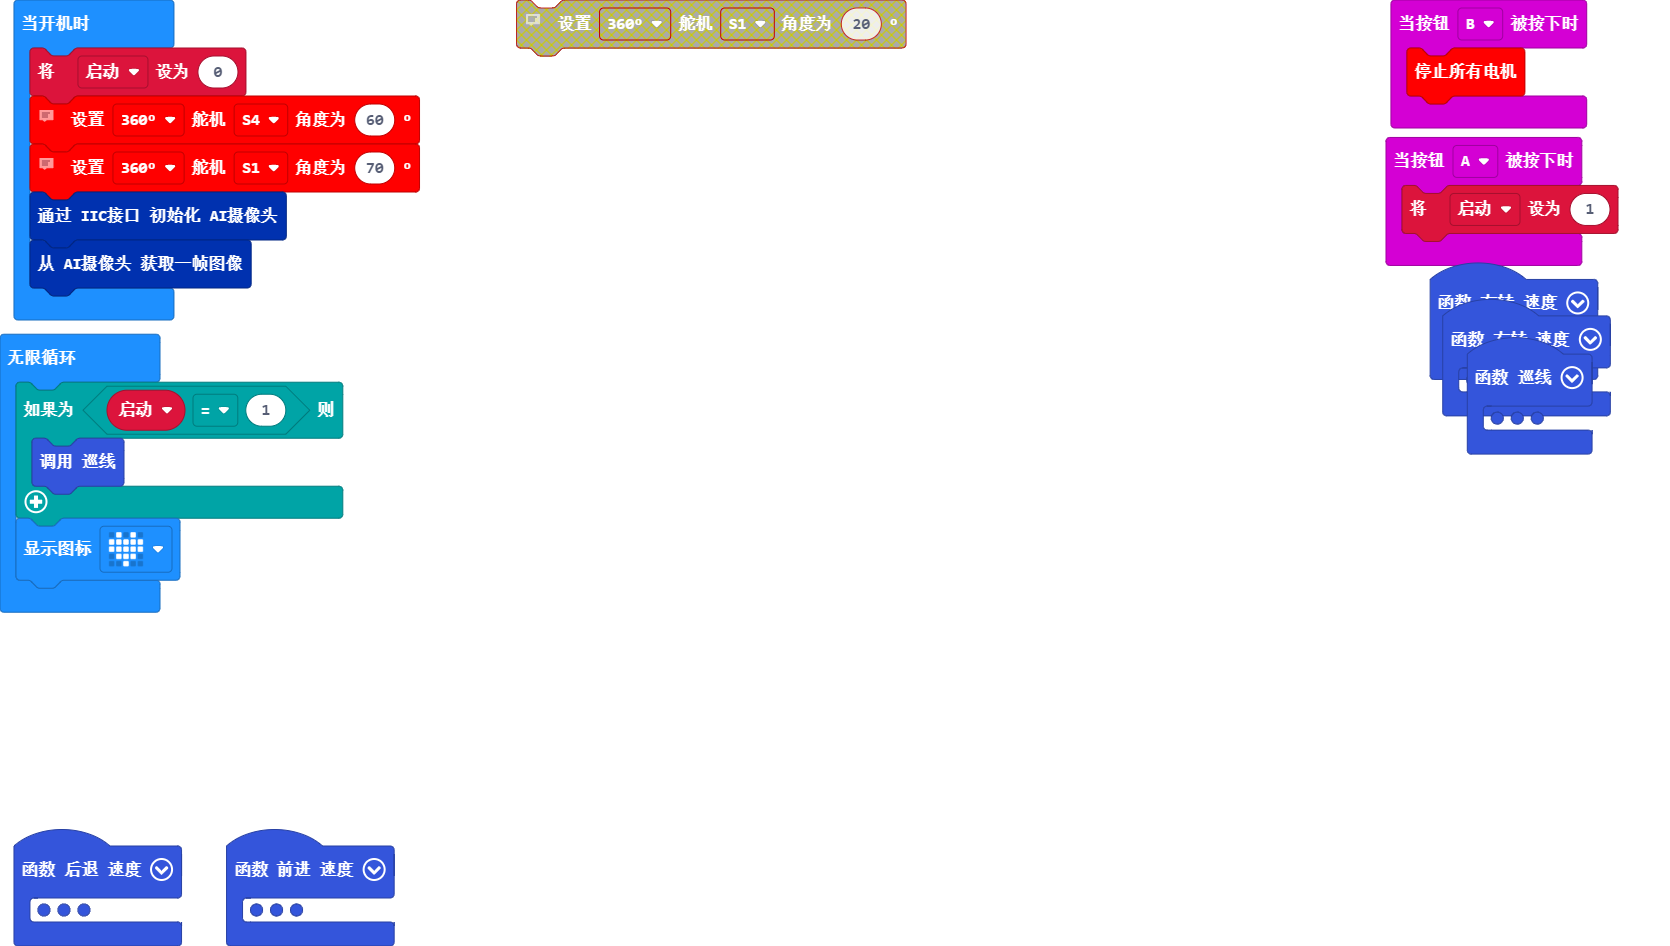
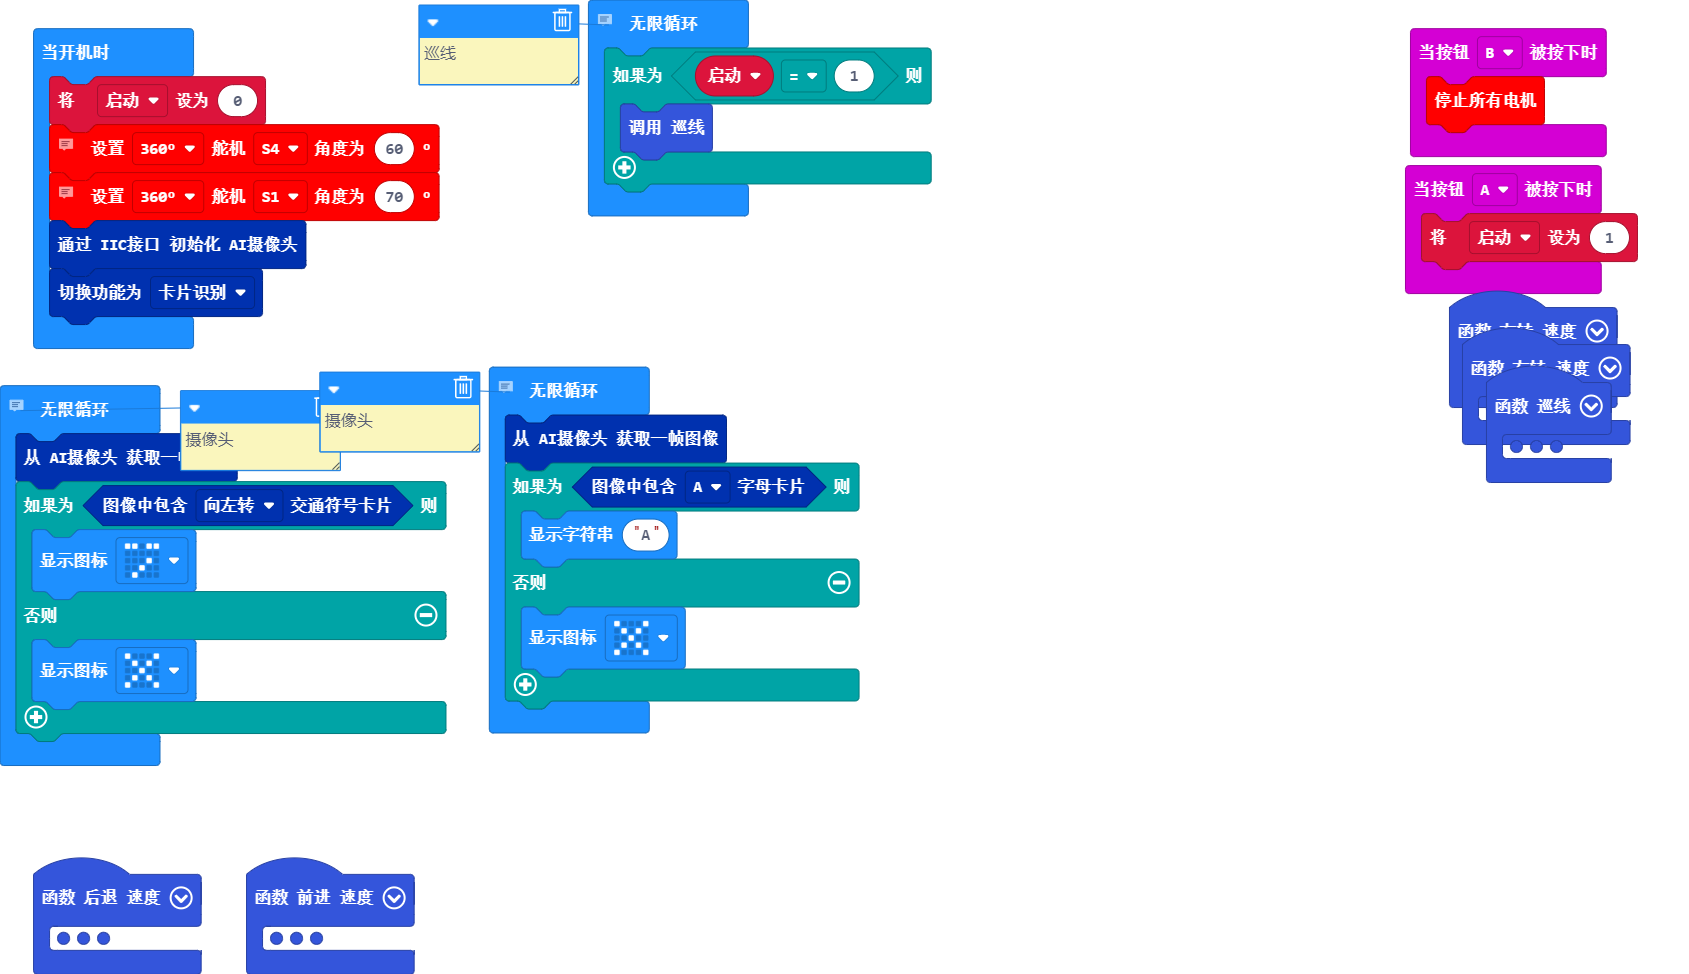
更新 main.blocks, main.ts

diff --git a/main.ts b/main.ts
@@ -37,15 +37,34 @@ input.onButtonPressed(Button.B, function () {
 })
 let 启动 = 0
 启动 = 0
-// 机械爪下限
+// 机械爪上限60下限20
+// 
 neZha.setServoAngel(neZha.ServoTypeList._360, neZha.ServoList.S4, 60)
-// 高度上限
+// 高度上限70下限10
 neZha.setServoAngel(neZha.ServoTypeList._360, neZha.ServoList.S1, 70)
 PlanetX_AILens.initModule()
-PlanetX_AILens.cameraImage()
+PlanetX_AILens.switchfunc(PlanetX_AILens.FuncList.Card)
+// 巡线
 basic.forever(function () {
     if (启动 == 1) {
         巡线()
     }
-    basic.showIcon(IconNames.Heart)
+})
+// 摄像头
+basic.forever(function () {
+    PlanetX_AILens.cameraImage()
+    if (PlanetX_AILens.trafficCard(PlanetX_AILens.trafficCards.turnleft)) {
+        basic.showIcon(IconNames.Meh)
+    } else {
+        basic.showIcon(IconNames.No)
+    }
+})
+// 摄像头
+basic.forever(function () {
+    PlanetX_AILens.cameraImage()
+    if (PlanetX_AILens.letterCard(PlanetX_AILens.letterCards.A)) {
+        basic.showString("A")
+    } else {
+        basic.showIcon(IconNames.No)
+    }
 })
